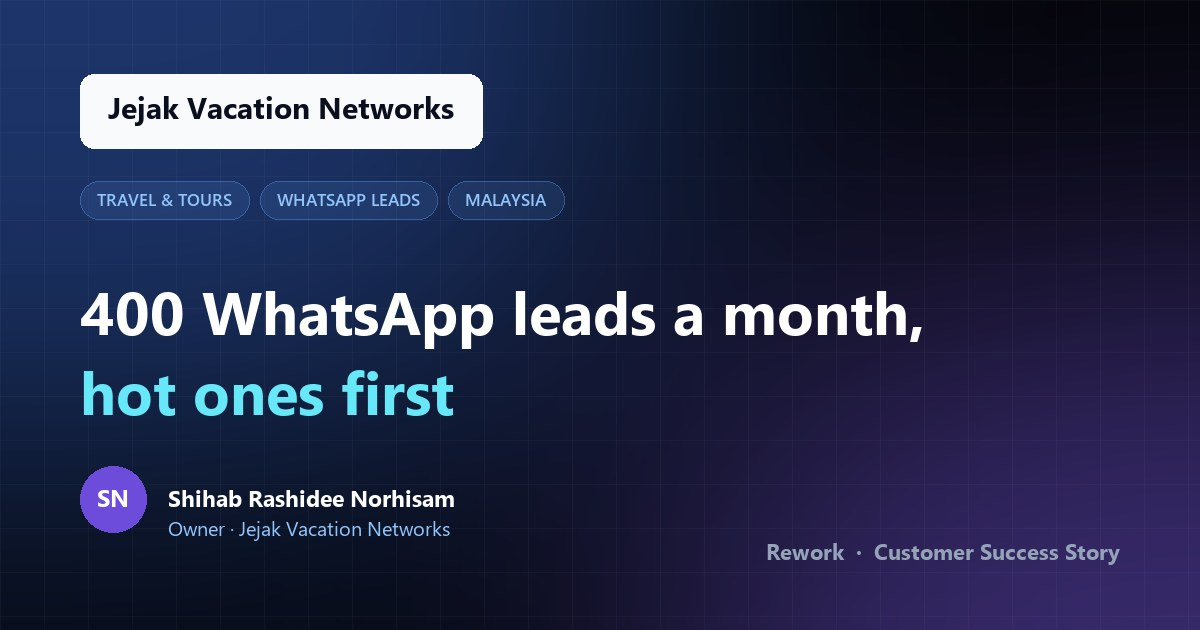
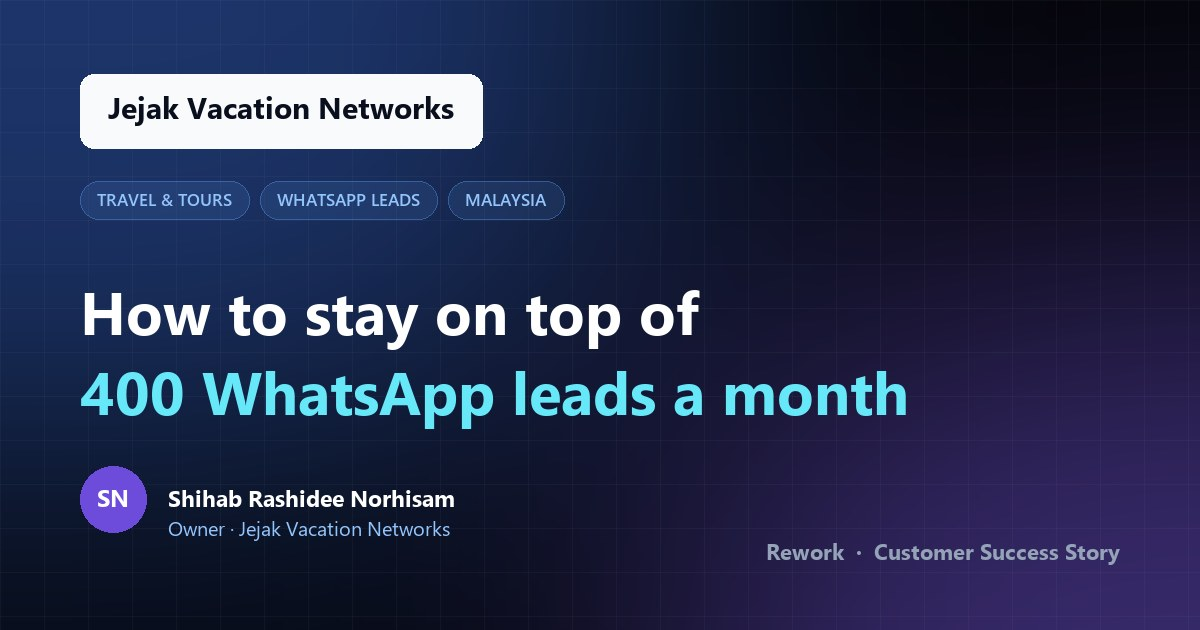
Retitle the Jejak story "How to stay on top of 400 WhatsApp leads a month"
Follows the YouTube title, trimmed: the company name is dropped from
the headline since the logo pill sits directly above it and the hub
card's meta line already names Jejak. og:title / twitter:title keep
the "Jejak Vacation Networks — " prefix like the other stories, so a
shared link still says whose story it is. og.jpg re-rendered to match.

Changed region(s): [[0.0617, 0.4524, 0.7708, 0.6937]]

diff --git a/testimonials/stories/jejak/index.html b/testimonials/stories/jejak/index.html
@@ -10,7 +10,7 @@
 <meta property="og:type" content="article">
 <meta property="og:site_name" content="Rework">
 <meta property="og:url" content="https://implementation.rework.com/testimonials/stories/jejak/">
-<meta property="og:title" content="Jejak Vacation Networks — 400 WhatsApp leads a month, hot ones first">
+<meta property="og:title" content="Jejak Vacation Networks — How to stay on top of 400 WhatsApp leads a month">
 <meta property="og:description" content="How Jejak Vacation Networks moved lead follow-up off spreadsheets and endless WhatsApp scrolling into one Rework pipeline — every lead traced to its channel, hot leads flagged first.">
 <meta property="og:image" content="https://implementation.rework.com/testimonials/stories/jejak/og.jpg">
 <meta property="og:image:secure_url" content="https://implementation.rework.com/testimonials/stories/jejak/og.jpg">
@@ -21,7 +21,7 @@
 
 <!-- Twitter -->
 <meta name="twitter:card" content="summary_large_image">
-<meta name="twitter:title" content="Jejak Vacation Networks — 400 WhatsApp leads a month, hot ones first">
+<meta name="twitter:title" content="Jejak Vacation Networks — How to stay on top of 400 WhatsApp leads a month">
 <meta name="twitter:description" content="How Jejak Vacation Networks moved lead follow-up off spreadsheets and endless WhatsApp scrolling into one Rework pipeline — every lead traced to its channel, hot leads flagged first.">
 <meta name="twitter:image" content="https://implementation.rework.com/testimonials/stories/jejak/og.jpg">
 <link href="https://fonts.googleapis.com/css2?family=DM+Sans:wght@400;500;600;700&family=Plus+Jakarta+Sans:wght@700;800&display=swap" rel="stylesheet">
@@ -196,7 +196,7 @@ footer a{color:var(--g300);text-decoration:none}
         <span class="tag">WhatsApp Leads</span>
         <span class="tag">Malaysia</span>
       </div>
-      <h1>400 WhatsApp leads a month, <span class="accent">hot ones first</span></h1>
+      <h1>How to stay on top of <span class="accent">400 WhatsApp leads a month</span></h1>
       <p class="hero-sub">Jejak Vacation Networks sells 80+ travel packages worldwide to Malaysian guests, and most of the selling happens on WhatsApp. After moving lead follow-up from spreadsheets into Rework, marketing can see which channel and which video brought in each lead, and every consultant knows which of their ~400 monthly leads to answer first.</p>
       <div class="speaker">
         <div class="sp-avatar">SN</div>

diff --git a/testimonials/index.html b/testimonials/index.html
@@ -581,7 +581,7 @@ window.CUSTOMER_VIDEOS = [
     yt: 'Be-C8asvYlM',
     thumbnail: 'https://i.ytimg.com/vi/Be-C8asvYlM/maxresdefault.jpg',
     badge: '4:32',
-    title: '400 WhatsApp leads a month, hot ones first',
+    title: 'How to stay on top of 400 WhatsApp leads a month',
     meta: 'Shihab Rashidee Norhisam · Owner · Jejak Vacation Networks',
     tags: ['Travel &amp; Tours', 'WhatsApp Leads', 'Malaysia'],
     switched: 'Moved off spreadsheets',
